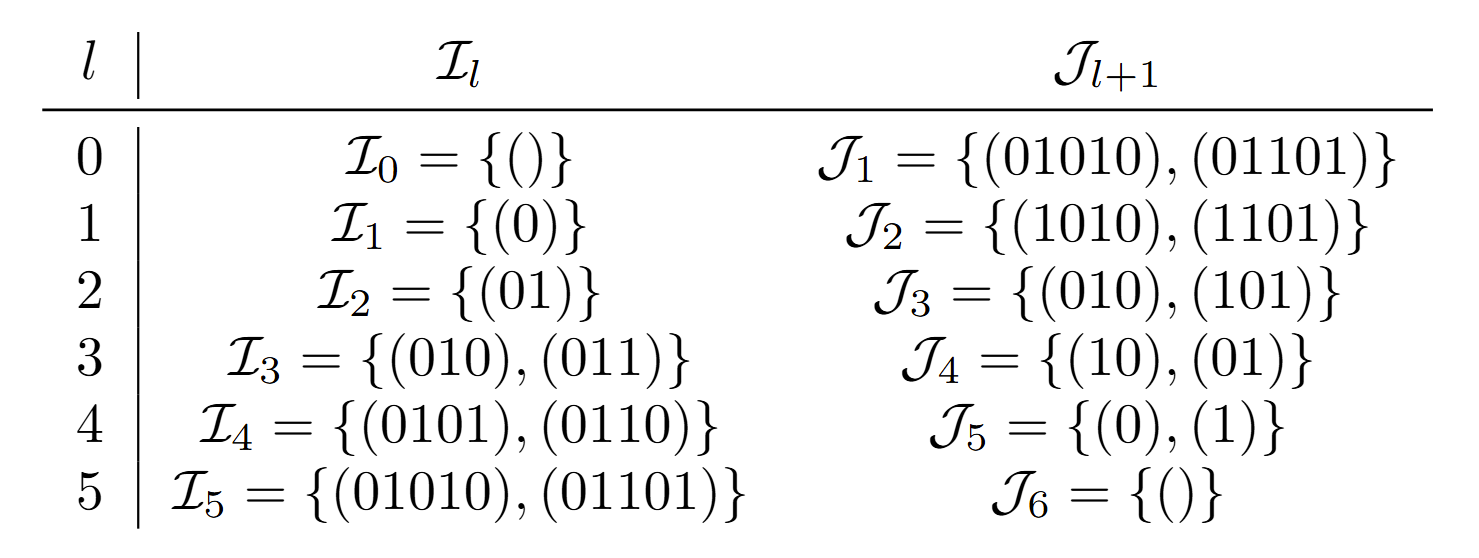
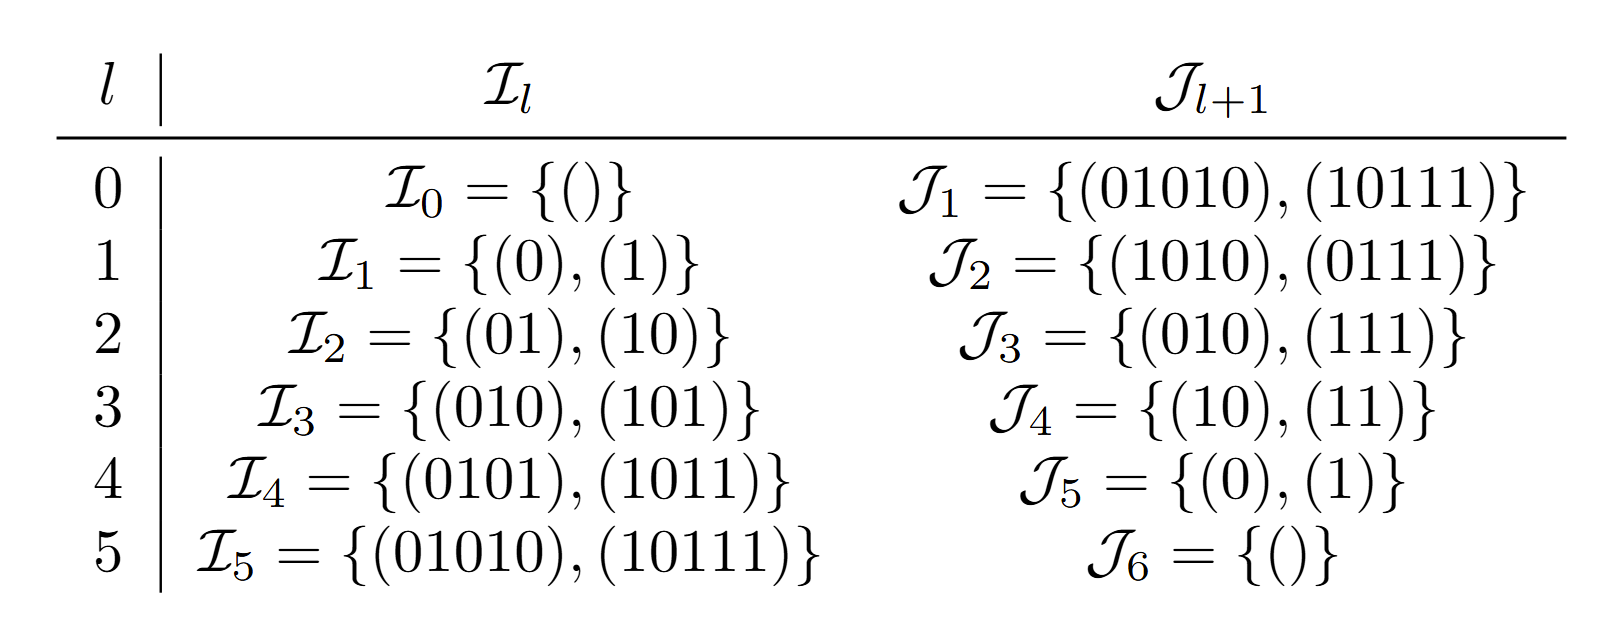
Minor diagram corrections and discussion on duplicates in pivot lists

Changed region(s): [[0.0311, 0.0609, 0.9642, 0.9444], [0.6842, 0.8226, 0.8398, 0.9444]]

diff --git a/src/mps/algorithms/tci/index.md b/src/mps/algorithms/tci/index.md
@@ -43,9 +43,11 @@ To generalise matrix cross interpolation to higher order tensors, we must keep t
 
 The different multi-indices are stored in pivot lists. The row multi-indices are stored in $\mathcal{I}_l$ which holds the indices of a pivot up to and including site $l$. The column multi-indices are stored in $\mathcal{J}_l$ which stores the indices from site $l$ up to the final site. For example, for just one pivot (01010), $\mathcal{I}_2=\{(01)\}$ and $\mathcal{J}_3=\{(010)\}$. We can concatenate ($\oplus$) elements of $\mathcal{I}_2$ and $\mathcal{J}_3$, which we call $i$ and $j$ respectively, to get a full multi-index denoting a location in $F$. Here $i=(01)$ and $j=(010)$ so that $i\oplus j =(01010)$ which identifies the element of $F$, $F_{01010}$.
 
-With multiple pivots the lists contain more elements, but no duplicates. See the table below for the pivot lists with the pivots (01010) and (01101):
+With multiple pivots the lists contain more elements, but no duplicates as this would cause two or more rows/columns to be the same. This means they are not linearly independant and implies eigenvalues of 0 which we are aiming to avoid. Removing any pivots causing duplicates can be done by using an alternative decomposition of the matrix which is discussed later in the Implementation Notes section. See the table below for the pivot lists with the pivots (01010) and (10111):
 
 ![medium](Pivot_List_Table.png)
+
+Clearly, since there are no duplciates, the lengths of complimentary lists are equal: the length of $\mathcal{I}_l$ is equal to $\mathcal{J}_{l+1}$.
 
 Using these pivot lists, we build slices of the input tensor $F$. The simplest is the pivot matrix $P_l$ which has no free indices and includes only the pivots specified by the pivot lists. The rows of the pivot matrix are labelled by $\mathcal{I}_l$ and the columns labelled by $\mathcal{J}_{l+1}$.
 
@@ -117,7 +119,7 @@ For example, the LDU factorisation decomposes the matrix into three parts and th
 
 ![medium](LDU_MCI_comparison.png)
 
-By truncating the matrix $D$, such as by using a partially rank revealing LU decomposition, we ensure that only large eigenvalues are kept. A partially rank revealing decomposition uses Gaussian elimination to construct the decomposition matrices by starting with the largest values in the $D$ matrix, once values fall below a threshold or a certain number have been found, the remaining diagonal values are set to 0. Decomposing the matrix in this way finds an approximate rank without needing to find the full rank of the matrix. Keeping just these largest pivot values, we can reshape the LDU factorisation into the combinations $P^{-1}$ matrices and $T$ tensors that we need, resulting in a more stable algorithm which avoids explictly evaluting inverses \cite{nunez2025learning}.
+By truncating the matrix $D$, such as by using a partially rank revealing LU decomposition, we ensure that only large eigenvalues are kept, therefore also removing any duplicates in the pivot lists. A partially rank revealing decomposition uses Gaussian elimination to construct the decomposition matrices by starting with the largest values in the $D$ matrix, once values fall below a threshold or a certain number have been found, the remaining diagonal values are set to 0. Decomposing the matrix in this way finds an approximate rank without needing to find the full rank of the matrix. Keeping just these largest pivot values, we can reshape the LDU factorisation into the combinations $P^{-1}$ matrices and $T$ tensors that we need, resulting in a more stable algorithm which avoids explictly evaluting inverses \cite{nunez2025learning}.
 
 ![medium](LDU_parts_one.png)
 ![medium](LDU_parts_two.png)
